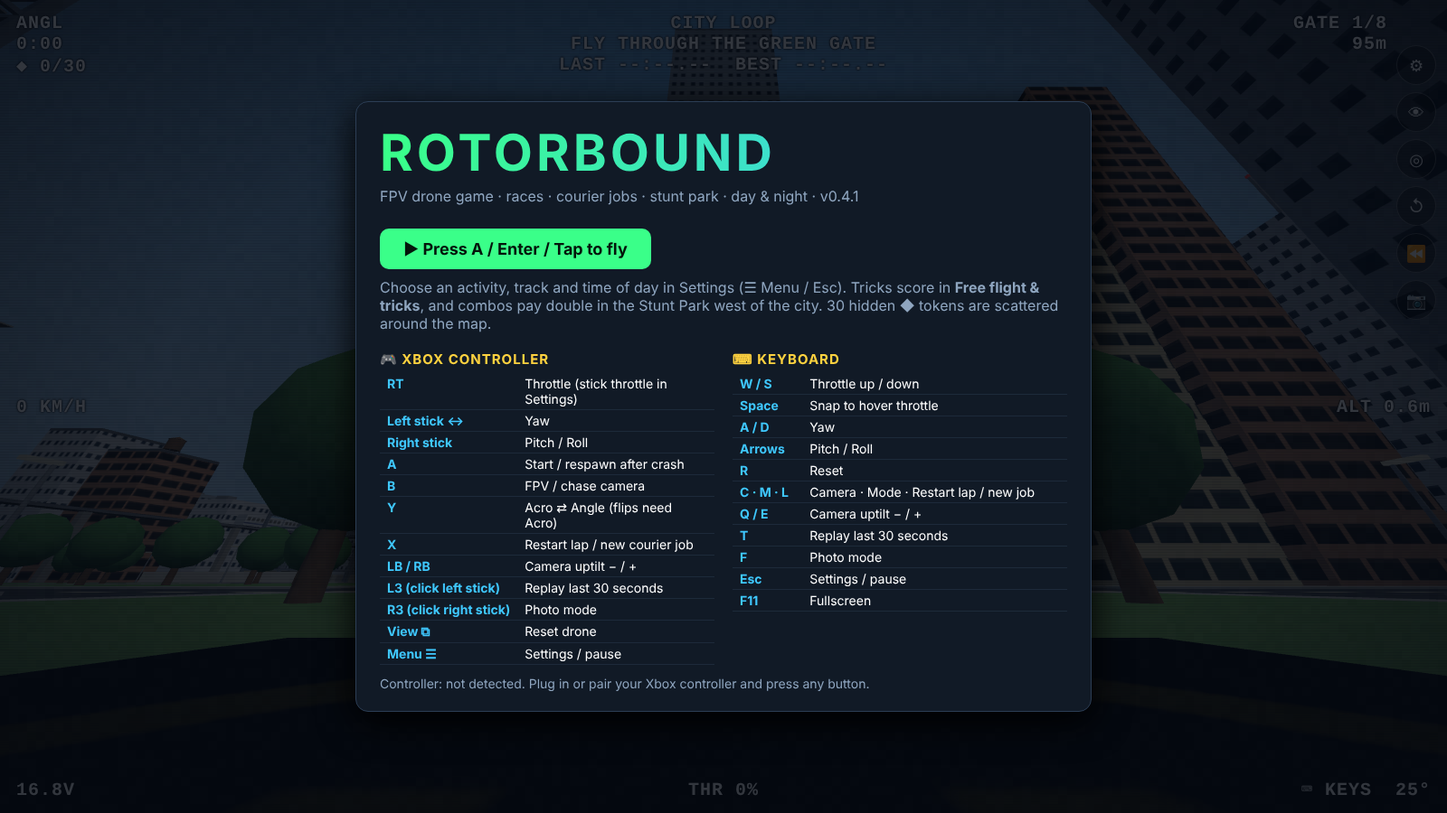
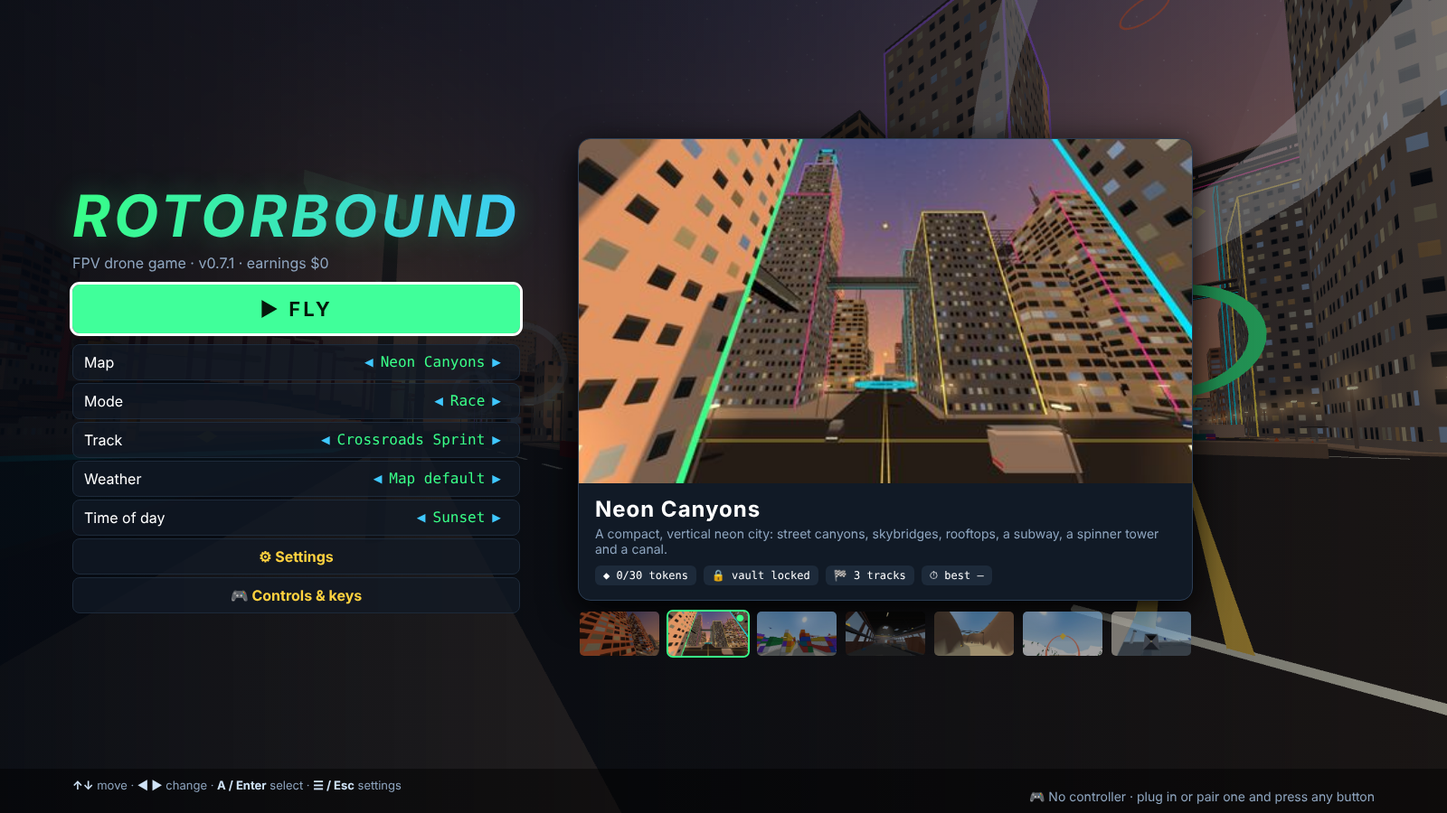
v0.7.1: new main menu with map cards and tabbed settings
Claude-Session: https://claude.ai/code/session_01Qq8UBKphU7AXk4TW1wRbgV

diff --git a/index.html b/index.html
@@ -51,6 +51,29 @@
   .chip{display:inline-block;min-width:22px;padding:2px 5px;margin:2px;border-radius:5px;background:#1d2a3a;font-family:Consolas,monospace;font-size:12px;text-align:center}
   .chip.on{background:#39ff88;color:#04150b}
   #ctrlLive{font-family:Consolas,monospace;font-size:12px;margin-bottom:8px}
+  #start{align-items:stretch;justify-content:stretch;background:linear-gradient(90deg,rgba(5,10,18,.94) 0,rgba(5,10,18,.8) 40%,rgba(5,10,18,.35) 100%)}
+  #title{display:flex;gap:4vw;width:100%;padding:5vh 5vw 64px;box-sizing:border-box;align-items:center;overflow:auto}
+  #title .tl{flex:0 0 min(400px,40vw)}#title .tr{flex:1;max-width:680px;min-width:0}
+  #title h1{font-size:clamp(34px,5.5vw,64px);font-style:italic;text-shadow:0 0 30px rgba(57,255,136,.25)}
+  #tMenu .row{padding:9px 12px;margin:3px 0;background:rgba(17,26,38,.75);border:1px solid #1d2a3a}
+  #tMenu .row.fly{background:#39ff88;color:#04150b;font-size:22px;font-weight:bold;letter-spacing:3px;justify-content:center;padding:14px;margin-bottom:12px;border:0}
+  #tMenu .row.fly.f{outline:3px solid #fff;animation:pulse 1.4s infinite}
+  #tMenu .row.dim{opacity:.45}
+  .mapcard{border-radius:14px;overflow:hidden;background:#111a26;border:1px solid #2c3e55;box-shadow:0 10px 40px #000}
+  .mapcard img{display:block;width:100%;aspect-ratio:16/9;object-fit:cover;background:#0b121b}
+  .mc-body{padding:14px 18px 16px}.mc-name{font-size:24px;font-weight:bold;letter-spacing:1px}.mc-desc{color:#8fa6c0;margin:4px 0 10px;font-size:14px}
+  .mc-stats{display:flex;flex-wrap:wrap;gap:8px}.mc-stats span{background:#1d2a3a;border-radius:6px;padding:4px 9px;font-family:Consolas,monospace;font-size:12px}
+  #tStrip{display:grid;grid-template-columns:repeat(7,1fr);gap:6px;margin-top:10px}
+  #tStrip div{border-radius:7px;overflow:hidden;border:2px solid transparent;cursor:pointer;opacity:.6;position:relative}
+  #tStrip div.sel{border-color:#39ff88;opacity:1}#tStrip div.cur::after{content:'●';position:absolute;top:1px;right:4px;color:#39ff88;font-size:10px}
+  #tStrip img{display:block;width:100%;aspect-ratio:16/9;object-fit:cover}
+  #tHint{position:absolute;left:0;right:0;bottom:0;padding:10px 5vw;background:rgba(0,0,0,.45);color:#8fa6c0;font-size:13px;display:flex;justify-content:space-between;gap:16px;flex-wrap:wrap}
+  #tHint b{color:#cfe3f7}
+  .tabs{display:flex;gap:6px;margin:0 0 12px;flex-wrap:wrap;align-items:center}
+  .tab{padding:7px 13px;border-radius:8px;background:#1d2a3a;color:#8fa6c0;font-size:12px;letter-spacing:1px;cursor:pointer;font-weight:bold}
+  .tab.on{background:#3fc8ff;color:#04121c}.tabs .lbrb{color:#55677d;font-size:11px;font-family:Consolas,monospace}
+  #menu .panel{width:min(620px,92vw);height:min(640px,86vh);display:flex;flex-direction:column}#rows{flex:1;overflow:auto}
+  @media (max-width:820px){#title{flex-direction:column;align-items:stretch}#title .tl{flex:none}#tStrip{grid-template-columns:repeat(4,1fr)}}
   #upd{position:fixed;bottom:60px;left:50%;transform:translateX(-50%);background:#132235;border:1px solid #3fc8ff;border-radius:10px;padding:12px 16px;z-index:20;display:none;max-width:90vw;text-align:center}
   #upd button{margin:8px 6px 0;padding:6px 14px;border-radius:6px;border:0;font-weight:bold;cursor:pointer}
 </style>
@@ -75,11 +98,21 @@
 <div id="upd"></div>
 
 <div class="overlay" id="start">
-  <div class="panel">
-    <h1>ROTORBOUND</h1>
-    <div class="sub">FPV drone game · races · courier jobs · stunt park · day &amp; night · <span id="verS"></span></div>
-    <div class="go" id="goBtn">▶ Press A / Enter / Tap to fly</div>
-    <div class="sub" style="margin:-6px 0 10px">Choose an activity, track and time of day in Settings (☰ Menu / Esc). Tricks score in <b>Free flight &amp; tricks</b>, and combos pay double in the Stunt Park west of the city. 30 hidden ◆ tokens are scattered around the map.</div>
+  <div id="title">
+    <div class="tl">
+      <h1>ROTORBOUND</h1>
+      <div class="sub" style="margin-bottom:14px">FPV drone game · <span id="verS"></span> · <span id="tCash"></span></div>
+      <div id="tMenu"></div>
+    </div>
+    <div class="tr">
+      <div class="mapcard"><img id="tImg" alt=""><div class="mc-body"><div class="mc-name" id="tName"></div><div class="mc-desc" id="tDesc"></div><div class="mc-stats" id="tStats"></div></div></div>
+      <div id="tStrip"></div>
+    </div>
+  </div>
+  <div id="tHint"><span><b>↑↓</b> move · <b>◀ ▶</b> change · <b>A / Enter</b> select · <b>☰ / Esc</b> settings</span><span id="padState">Controller: not detected</span></div>
+</div>
+
+<div class="overlay" id="help" style="display:none"><div class="panel"><h3 style="font-size:20px;margin-top:0">🎮 CONTROLS &amp; KEYS</h3>
     <div class="cols">
       <div>
         <h3>🎮 XBOX CONTROLLER</h3>
@@ -119,19 +152,19 @@
         </table>
       </div>
     </div>
-    <div id="padState">Controller: not detected. Plug in or pair your Xbox controller and press any button.</div>
-  </div>
-</div>
+    <div class="sub" style="margin:12px 0 0;font-size:13px">Tricks score in <b>Free flight &amp; tricks</b>; combos pay double in Rotor City's Stunt Park. Find every ◆ token on a map to open its secret vault. Remap buttons in Settings → Flying → Controller setup.</div>
+    <div class="go" id="helpClose" style="animation:none;font-size:15px;padding:8px 20px;margin:12px 0 0">✔ Got it (A / Esc)</div>
+</div></div>
 
 <div class="overlay" id="ctrl" style="display:none"><div class="panel" style="min-width:min(620px,92vw)"><h3 style="font-size:20px;margin-top:0">🎮 CONTROLLER SETUP</h3><div id="ctrlLive"></div><div id="ctrlRows"></div><div id="ctrlMsg" class="sub" style="margin:10px 0 0;font-size:13px;color:#ffd23f"></div><div class="sub" style="margin:6px 0 0;font-size:12px">D-pad / arrows to move · A / Enter to select · ◀ ▶ to change · B / Esc to close</div></div></div>
-<div class="overlay" id="menu" style="display:none"><div class="panel" style="min-width:min(540px,90vw)"><h3 style="font-size:20px;margin-top:0">⚙ SETTINGS</h3><div id="rows"></div><div class="sub" style="margin:10px 0 0;font-size:12px">D-pad / arrows to move · ◀ ▶ to change · A / Enter to select · B / Esc to close</div></div></div>
+<div class="overlay" id="menu" style="display:none"><div class="panel" style="min-width:min(540px,90vw)"><h3 style="font-size:20px;margin-top:0">⚙ SETTINGS</h3><div class="tabs" id="menuTabs"></div><div id="rows"></div><div class="sub" style="margin:10px 0 0;font-size:12px">↑↓ move · ◀ ▶ change · LB / RB or Q / E switch tab · A / Enter select · B / Esc close</div></div></div>
 
 <script src="lib/three.min.js"></script>
 <script>if(!window.THREE)document.write('<script src="https://cdn.jsdelivr.net/npm/three@0.149.0/build/three.min.js"><\/script>')</script>
 <script>
 (function(){
 'use strict';
-const VERSION='0.7.0';
+const VERSION='0.7.1';
 const REPO='kefirman9000/rotorbound';
 const $=id=>document.getElementById(id);
 if(!window.THREE){document.body.innerHTML='<div style="padding:40px;font-size:20px">Could not load the 3D engine (lib/three.min.js is missing). Re-download Rotorbound from GitHub.</div>';return;}
@@ -1548,7 +1581,7 @@ function axisN(ax,i){return dzv(axisRaw(ax,i),i<2?S.dzL:S.dzR);}
 let gpIndex=null,prevBtn=[],gpName='';
 addEventListener('gamepadconnected',e=>{gpIndex=e.gamepad.index;gpName=e.gamepad.id;toast('🎮 Controller connected');updPad();});
 addEventListener('gamepaddisconnected',e=>{if(gpIndex===e.gamepad.index){gpIndex=null;toast('Controller disconnected');updPad();}});
-function updPad(){$('padState').innerHTML=gpIndex!==null?'Controller: <b style="color:#39ff88">connected</b> · '+(gpName.replace(/\(.*?\)/g,'').trim()||'gamepad'):'Controller: not detected. Plug in or pair your Xbox controller and press any button.';}
+function updPad(){$('padState').innerHTML=gpIndex!==null?'🎮 <b style="color:#39ff88">'+(gpName.replace(/\(.*?\)/g,'').trim()||'Controller')+'</b> connected':'🎮 No controller · plug in or pair one and press any button';}
 function getPad(){const pads=navigator.getGamepads?navigator.getGamepads():[];if(gpIndex!==null&&pads[gpIndex])return pads[gpIndex];for(const p of pads)if(p&&p.connected){gpIndex=p.index;gpName=p.id;updPad();return p;}return null;}
 function rumble(strong,weak,ms){if(!S.rumble)return;const p=getPad();const a=p&&p.vibrationActuator;if(a&&a.playEffect)a.playEffect('dual-rumble',{duration:ms,strongMagnitude:strong,weakMagnitude:weak}).catch(()=>{});}
 const hoverThr=()=>1/S.thrustRatio;
@@ -1567,9 +1600,17 @@ function pollPad(dt){
     const code=dir*10+side;
     if(code!==0){if(navHold.dir!==code){navHold={dir:code,t:0.35};menuNav(dir,side);}else{navHold.t-=dt;if(navHold.t<=0){navHold.t=0.11;menuNav(dir,side);}}}else navHold.dir=0;
     if(pressed(0))menuActivate();
+    if(pressed(4))setTab(mTab-1);if(pressed(5))setTab(mTab+1);
     if(pressed(1)||pressed(9))closeMenu();
+  }else if(helpOpen){
+    if(pressed(0)||pressed(1)||pressed(9))closeHelp();
   }else if(!started){
-    if(b.some((x,i)=>i<12&&pressed(i)))startGame();
+    let dir=0;if(bv(12)>.5||ax[1]<-.6)dir=-1;else if(bv(13)>.5||ax[1]>.6)dir=1;
+    let side=0;if(bv(14)>.5||ax[0]<-.6)side=-1;else if(bv(15)>.5||ax[0]>.6)side=1;
+    const code=dir*10+side;
+    if(code!==0){if(navHold.dir!==code){navHold={dir:code,t:0.35};tNav(dir,side);}else{navHold.t-=dt;if(navHold.t<=0){navHold.t=0.11;tNav(dir,side);}}}else navHold.dir=0;
+    if(pressed(0))tActivate();if(pressed(9))openMenu();
+    if(pressed(4)||pressed(5))tChange(TROWS[1],pressed(4)?-1:1);
   }else if(PH.on){
     if(Math.abs(pad.lx)+Math.abs(pad.ly)+Math.abs(pad.rx)+Math.abs(pad.ry)+pad.lt+pad.rt>0.05)source='controller';
     if(pressed(0))takePhoto();if(pressed(1)||pressed(11)||pressed(9))exitPhoto();if(pressed(4))cycleTod(-1);if(pressed(5))cycleTod(1);
@@ -1603,10 +1644,11 @@ function pollPad(dt){
 }
 addEventListener('keydown',e=>{
   const k=e.key.toLowerCase();
-  if(['arrowup','arrowdown','arrowleft','arrowright',' ','backspace'].includes(k))e.preventDefault();
+  if(['arrowup','arrowdown','arrowleft','arrowright',' ','backspace','tab'].includes(k))e.preventDefault();
   if(CT.open){ctrlKey(k);return;}
-  if(menuOpen){if(k==='arrowup'||k==='w')menuNav(-1,0);else if(k==='arrowdown'||k==='s')menuNav(1,0);else if(k==='arrowleft'||k==='a')menuNav(0,-1);else if(k==='arrowright'||k==='d')menuNav(0,1);else if(k==='enter'||k===' ')menuActivate();else if(k==='escape'||k==='p')closeMenu();return;}
-  if(!started){if(k==='enter'||k===' ')startGame();return;}
+  if(menuOpen){if(k==='arrowup'||k==='w')menuNav(-1,0);else if(k==='arrowdown'||k==='s')menuNav(1,0);else if(k==='arrowleft'||k==='a')menuNav(0,-1);else if(k==='arrowright'||k==='d')menuNav(0,1);else if(k==='enter'||k===' ')menuActivate();else if(k==='q'||(k==='tab'&&e.shiftKey))setTab(mTab-1);else if(k==='e'||k==='tab')setTab(mTab+1);else if(k==='escape'||k==='p')closeMenu();return;}
+  if(helpOpen){if(k==='escape'||k==='enter'||k===' ')closeHelp();return;}
+  if(!started){if(k==='arrowup'||k==='w')tNav(-1,0);else if(k==='arrowdown'||k==='s')tNav(1,0);else if(k==='arrowleft'||k==='a')tNav(0,-1);else if(k==='arrowright'||k==='d')tNav(0,1);else if(k==='enter'||k===' ')tActivate();else if(k==='escape')openMenu();return;}
   kb.keys.add(k);
   if(e.repeat)return;
   if(PH.on){source='keyboard';if(k==='enter'||k==='p')takePhoto();else if(k==='f'||k==='escape')exitPhoto();else if(k==='['||k==='z')cycleTod(-1);else if(k===']'||k==='x')cycleTod(1);return;}
@@ -1891,6 +1933,7 @@ function updFx(dt){
 const tiltQ=new QT(),shakeQ=new QT(),chasePos=new V3(0,3,6),_hf=new V3(),XAX=new V3(1,0,0);
 let shake=0;
 function updCamera(dt){
+  if(!started&&!window.__rbHold){const sp=MAPDEF.spawn.p,a=performance.now()*0.00005+(MAPDEF.spawn.h||0);drone.visible=false;camera.position.set(sp[0],Math.max(sp[1],groundH(sp[0],sp[2],sp[1]+2))+2.2,sp[2]);_e.set(0.06,a,0,'YXZ');camera.quaternion.setFromEuler(_e);return;}
   const fpv=S.view==='fpv';
   drone.visible=!fpv;
   drone.position.copy(D.pos);drone.quaternion.copy(D.q);
@@ -1974,6 +2017,7 @@ function toast(msg){const t=$('toast');t.textContent=msg;t.style.opacity=1;clear
 let menuOpen=false,focus=1;
 const ROWS=[
   {h:'PLAY'},
+  {a:'resume',l:'▶ Resume'},
   {k:'map',l:'Map',o:[['city','Rotor City'],['canyons','Neon Canyons'],['port','Port Yard'],['factory','Abandoned Factory'],['valley','Canyon Valley'],['ski','Ski Resort'],['mall','Mall & Airport']]},
   {k:'activity',l:'Activity',o:[['race','Race'],['courier','Courier jobs'],['free','Free flight & tricks']]},
   {k:'track',l:'Track',o:TRACK_IDS.map(id=>[id,TRACKS[id].name])},
@@ -1987,14 +2031,14 @@ const ROWS=[
   {k:'shadows',l:'Sun shadows (all maps except Rotor City)',b:1},
   {k:'respawn',l:'After a crash',o:[['safe','Respawn at last safe spot / gate'],['start','Restart from the start']]},
   {k:'light',l:'Drone headlight',o:[['auto','Auto (dark)'],['on','On'],['off','Off']]},
-  {a:'replay',l:'⏪ Replay last 30 seconds'},{a:'photo',l:'📷 Photo mode'},
+  {a:'replay',l:'⏪ Replay last 30 seconds',game:1},{a:'photo',l:'📷 Photo mode',game:1},
   {h:'FLYING'},
   {k:'mode',l:'Flight mode',o:[['angle','Angle (self-level)'],['horizon','Horizon (level + flips)'],['acro','Acro (flips & rolls)']]},
   {k:'altHold',l:'Altitude hold (Angle/Horizon)',b:1},
   {k:'layout',l:'Throttle style',o:[['trigger','Trigger (RT)'],['hover','Stick · center = hover'],['stick','Stick / RC radio · full range']]},
   {k:'thrMid',l:'Throttle mid',min:0.2,max:0.8,st:0.05,f:v=>v.toFixed(2)},
   {k:'thrExpo',l:'Throttle expo',min:0,max:1,st:0.05,f:v=>v.toFixed(2)},
-  {h:'RATES (Betaflight actual)'},{info:'rates'},{k:'rollRc',l:'Roll RC rate',min:0.2,max:2.55,st:0.05,f:v=>v.toFixed(2)},{k:'rollSr',l:'Roll super rate',min:0,max:0.95,st:0.05,f:v=>v.toFixed(2)},{k:'rollEx',l:'Roll expo',min:0,max:1,st:0.05,f:v=>v.toFixed(2)},{k:'pitchRc',l:'Pitch RC rate',min:0.2,max:2.55,st:0.05,f:v=>v.toFixed(2)},{k:'pitchSr',l:'Pitch super rate',min:0,max:0.95,st:0.05,f:v=>v.toFixed(2)},{k:'pitchEx',l:'Pitch expo',min:0,max:1,st:0.05,f:v=>v.toFixed(2)},{k:'yawRc',l:'Yaw RC rate',min:0.2,max:2.55,st:0.05,f:v=>v.toFixed(2)},{k:'yawSr',l:'Yaw super rate',min:0,max:0.95,st:0.05,f:v=>v.toFixed(2)},{k:'yawEx',l:'Yaw expo',min:0,max:1,st:0.05,f:v=>v.toFixed(2)},
+  {h:'RATES'},{info:'rates'},{k:'rollRc',l:'Roll RC rate',min:0.2,max:2.55,st:0.05,f:v=>v.toFixed(2)},{k:'rollSr',l:'Roll super rate',min:0,max:0.95,st:0.05,f:v=>v.toFixed(2)},{k:'rollEx',l:'Roll expo',min:0,max:1,st:0.05,f:v=>v.toFixed(2)},{k:'pitchRc',l:'Pitch RC rate',min:0.2,max:2.55,st:0.05,f:v=>v.toFixed(2)},{k:'pitchSr',l:'Pitch super rate',min:0,max:0.95,st:0.05,f:v=>v.toFixed(2)},{k:'pitchEx',l:'Pitch expo',min:0,max:1,st:0.05,f:v=>v.toFixed(2)},{k:'yawRc',l:'Yaw RC rate',min:0.2,max:2.55,st:0.05,f:v=>v.toFixed(2)},{k:'yawSr',l:'Yaw super rate',min:0,max:0.95,st:0.05,f:v=>v.toFixed(2)},{k:'yawEx',l:'Yaw expo',min:0,max:1,st:0.05,f:v=>v.toFixed(2)},
   {k:'angleMax',l:'Angle mode max tilt',min:20,max:80,st:5,f:v=>v+'°'},
   {k:'thrustRatio',l:'Power (thrust : weight)',min:2,max:8,st:0.5,f:v=>v.toFixed(1)+':1'},
   {a:'ctrl',l:'🎮 Controller setup, remap & calibrate'},
@@ -2009,15 +2053,20 @@ const ROWS=[
   {k:'trigRumble',l:'Trigger rumble (Xbox)',b:1},
   {k:'sound',l:'Sound',b:1},
   {k:'volume',l:'Volume',min:0,max:1,st:0.05,f:v=>Math.round(v*100)+'%'},
-  {h:''},
-  {a:'resume',l:'▶ Resume'},{a:'reset',l:'↺ Reset drone'},{a:'clearGhost',l:'Clear best lap, ghost & leaderboard for this track'},{a:'defaults',l:'Restore default settings'},{a:'update',l:'⟳ Check for updates'},
+  {h:'SYSTEM'},
+  {a:'help',l:'🎮 Controls & keys'},{a:'title',l:'⌂ Main menu',game:1},{a:'reset',l:'↺ Reset drone',game:1},{a:'clearGhost',l:'Clear best lap, ghost & leaderboard for this track'},{a:'defaults',l:'Restore default settings'},{a:'update',l:'⟳ Check for updates'},
   {a:'sponsor',l:'❤ Support Rotorbound on GitHub Sponsors'}
 ];
-const skip=r=>('h' in r)||('info' in r);
+const skip=r=>('h' in r)||('info' in r)||(r.game&&!started);
+const TABS=ROWS.filter(r=>'h' in r).map(r=>r.h),TABOF=[];{let t=-1;ROWS.forEach((r,i)=>{if('h' in r)t++;TABOF[i]=t;});}
+let mTab=0;
+function tabRows(){return ROWS.map((r,i)=>i).filter(i=>TABOF[i]===mTab&&!skip(ROWS[i]));}
+function setTab(t){mTab=(t+TABS.length)%TABS.length;focus=tabRows()[0];renderMenu();}
 function valText(r){const v=S[r.k];if(r.o){const o=r.o.find(x=>x[0]===v);return o?o[1]:String(v);}if(r.b)return v?'ON':'OFF';return r.f(v);}
 function boardText(){const b=store.get('board.'+S.track,[]);if(!b.length)return '🏁 '+TRACKS[S.track].name+' leaderboard: no laps yet';return '🏁 '+TRACKS[S.track].name+' · top laps on this PC\n'+b.slice(0,5).map((e,i)=>`  ${i+1}. ${fmtT(e.t)}   ${e.d}`).join('\n');}
 function renderMenu(){
-  $('rows').innerHTML=ROWS.map((r,i)=>('h' in r)?`<div class="row hd">${r.h}</div>`:('info' in r)?(r.info==='rates'?`<div class="row info"><canvas id="rateCv" width="460" height="130" style="width:100%;max-width:460px"></canvas></div>`:`<div class="row info">${boardText()}</div>`):r.a?`<div class="row act${i===focus?' f':''}" data-i="${i}">${r.a==='sponsor'?`<a href="https://github.com/sponsors/kefirman9000" target="_blank" rel="noopener">${r.l}</a>`:r.l}</div>`:`<div class="row${i===focus?' f':''}" data-i="${i}"><span>${r.l}</span><span class="v"><span data-d="-1">◀</span>${valText(r)}<span data-d="1">▶</span></span></div>`).join('')+
+  $('menuTabs').innerHTML='<span class="lbrb">LB</span>'+TABS.map((t,k)=>`<div class="tab${k===mTab?' on':''}" data-t="${k}">${t}</div>`).join('')+'<span class="lbrb">RB</span>';
+  $('rows').innerHTML=ROWS.map((r,i)=>(TABOF[i]!==mTab||('h' in r)||(r.game&&!started))?'':('info' in r)?(r.info==='rates'?`<div class="row info"><canvas id="rateCv" width="460" height="130" style="width:100%;max-width:460px"></canvas></div>`:`<div class="row info">${boardText()}</div>`):r.a?`<div class="row act${i===focus?' f':''}" data-i="${i}">${r.a==='resume'&&!started?'◀ Back to main menu':r.a==='sponsor'?`<a href="https://github.com/sponsors/kefirman9000" target="_blank" rel="noopener">${r.l}</a>`:r.l}</div>`:`<div class="row${i===focus?' f':''}" data-i="${i}"><span>${r.l}</span><span class="v"><span data-d="-1">◀</span>${valText(r)}<span data-d="1">▶</span></span></div>`).join('')+
     `<div class="sub" style="text-align:center;margin:8px 0 0;font-size:12px">${MAPDEF.name} · ${MAPDEF.vaults.length?(MAPDEF.vaults[0].open?'🔓 vault open':'🔒 find every ◆ to open the vault')+' · ':''}Rotorbound v${VERSION} · earnings ${fmtCash(cash)} · tokens ${gotTokens.size}/${tokens.length} · trick score ${T.total.toLocaleString()}</div>`;
   const el=$('rows').querySelector('.row.f');if(el)el.scrollIntoView({block:'nearest'});
   drawRates();
@@ -2036,11 +2085,12 @@ function change(r,d){
   if(r.k==='mode'&&S.mode==='angle')syncHeading();
   if(r.k==='layout'){if(S.layout==='trigger'&&S.bind.thr.t!=='b')S.bind.thr={t:'b',i:7,inv:false};if(S.layout!=='trigger'&&S.bind.thr.t==='b')S.bind.thr={t:'a',i:1,inv:true};}
   if(r.k==='racingLine')buildRacingLine();
-  if(r.k==='map'||r.k==='shadows'){if(r.k==='map'&&S.map==='canyons'&&S.tod==='day')S.tod='sunset';save();$('menu').innerHTML='<div class="panel">Loading '+(S.map==='canyons'?'Neon Canyons':'Rotor City')+'…</div>';setTimeout(()=>location.reload(),50);return;}
+  if(r.k==='map'||r.k==='shadows'){if(r.k==='map'&&S.map==='canyons'&&S.tod==='day')S.tod='sunset';save();showLoading(S.map);return;}
   if(r.k==='activity'||r.k==='track'){if(r.k==='track'&&S.activity!=='race')S.activity='race';setupActivity();}
   save();renderMenu();
 }
-function menuNav(dir,side){if(dir){do{focus=(focus+dir+ROWS.length)%ROWS.length;}while(skip(ROWS[focus]));renderMenu();}else if(side)change(ROWS[focus],side);}
+function menuNav(dir,side){if(dir){const tr=tabRows();if(!tr.length)return;const k=tr.indexOf(focus);focus=tr[k<0?0:(k+dir+tr.length)%tr.length];renderMenu();}else if(side)change(ROWS[focus],side);}
+$('menuTabs').addEventListener('click',e=>{const t=e.target.closest('.tab');if(t)setTab(+t.dataset.t);});
 function menuActivate(){
   const r=ROWS[focus];if(skip(r))return;
   if(!r.a){change(r,1);return;}
@@ -2052,10 +2102,50 @@ function menuActivate(){
   else if(r.a==='clearGhost'){store.set('best.'+S.track,null);store.set('ghost.'+S.track,null);store.set('board.'+S.track,[]);loadTrackRecords();renderMenu();toast('Cleared records for '+TRACKS[S.track].name);}
   else if(r.a==='defaults'){S=Object.assign({},DEFAULTS);save();setupActivity();renderMenu();toast('Defaults restored');}
   else if(r.a==='update')checkUpdate(true);
+  else if(r.a==='help'){closeMenu();openHelp();}
+  else if(r.a==='title')toTitle();
   else if(r.a==='sponsor'){const a=$('rows').querySelector('a');if(a)a.click();}
 }
-function openMenu(){if(!started)return;if(RB.on)exitReplay();if(PH.on)exitPhoto();menuOpen=true;if(skip(ROWS[focus]))focus=1;$('menu').style.display='flex';renderMenu();}
-function closeMenu(){menuOpen=false;$('menu').style.display='none';}
+function openMenu(){if(RB.on)exitReplay();if(PH.on)exitPhoto();menuOpen=true;if(started)mTab=0;if(TABOF[focus]!==mTab||skip(ROWS[focus]))focus=tabRows()[0];$('menu').style.display='flex';renderMenu();}
+function closeMenu(){menuOpen=false;$('menu').style.display='none';if(!started){tMap=MAP;renderTitle();}}
+
+// ---------------- main menu (title screen) ----------------
+const MAP_INFO={city:{n:'Rotor City',d:'A big sprawling city with a stunt park, a stadium, the Skyfair theme park, a river and an elevated train.',tk:30,tr:6},
+  canyons:{n:'Neon Canyons',d:'A compact, vertical neon city: street canyons, skybridges, rooftops, a subway, a spinner tower and a canal.',tk:30,tr:3},
+  port:{n:'Port Yard',d:'Container canyons, moving gantry cranes and two cargo ships you can fly straight through.',tk:25,tr:2},
+  factory:{n:'Abandoned Factory',d:'A dark hall of catwalks and conveyors, smokestacks, silos and a pitch-black tunnel.',tk:25,tr:2},
+  valley:{n:'Canyon Valley',d:'Real terrain: a river, a waterfall with a cave behind it, a dam spillway, bridges and a rock arch.',tk:28,tr:2},
+  ski:{n:'Ski Resort',d:'A snowy mountain with a chairlift, a gondola, a ski jump, slalom flags and a lodge.',tk:30,tr:2},
+  mall:{n:'Mall & Airport',d:'A three-floor atrium, a food court, an airport terminal, jet bridges and taxiing planes.',tk:26,tr:2}};
+let tMap=MAP,tFocus=0,helpOpen=false;
+const TROWS=[{a:'fly'},{k:'map',l:'Map'},{k:'activity',l:'Mode'},{k:'track',l:'Track'},{k:'weather',l:'Weather'},{k:'tod',l:'Time of day'},{a:'settings',l:'⚙ Settings'},{a:'help',l:'🎮 Controls & keys'}];
+const rowDef=k=>ROWS.find(r=>r.k===k);
+const tHidden=r=>r.k==='track'&&(S.activity!=='race'||tMap!==MAP);
+function tVal(r){if(r.k==='map')return MAP_INFO[tMap].n;const d=rowDef(r.k),o=d.o.find(x=>x[0]===S[r.k]);return o?o[1]:String(S[r.k]);}
+function showLoading(m){$('menu').style.display='flex';$('menu').innerHTML='<div class="panel" style="font-size:20px;padding:30px 40px">Loading '+MAP_INFO[m].n+'…</div>';setTimeout(()=>location.reload(),50);}
+function renderTitle(){
+  const tk=id=>store.get(id==='city'?'tokens':'tokens.'+id,[]).length;
+  $('tMenu').innerHTML=TROWS.map((r,i)=>tHidden(r)?'':r.a==='fly'?`<div class="row fly${i===tFocus?' f':''}" data-i="${i}">▶ ${tMap===MAP?'FLY':'LOAD &amp; FLY'}</div>`:r.a?`<div class="row act${i===tFocus?' f':''}" data-i="${i}">${r.l}</div>`:
+    `<div class="row${i===tFocus?' f':''}" data-i="${i}"><span>${r.l}</span><span class="v"><span data-d="-1">◀</span>${tVal(r)}<span data-d="1">▶</span></span></div>`).join('');
+  const I=MAP_INFO[tMap];$('tImg').src='img/maps/'+tMap+'.jpg';$('tName').textContent=I.n;$('tDesc').textContent=I.d;
+  const got=tk(tMap),tot=tMap===MAP?tokens.length:I.tk,st=[`◆ ${got}/${tot} tokens`,store.get('vault.'+tMap,false)?'🏆 vault found':got>=tot?'🔓 vault open':'🔒 vault locked',`🏁 ${I.tr} tracks`];
+  if(tMap===MAP&&S.activity==='race'&&TRACKS[S.track]){const b=store.get('best.'+S.track,null);st.push('⏱ best '+(b?fmtT(b.t!=null?b.t:b):'—'));}
+  if(tMap!==MAP)st.push('loads when you fly');
+  $('tStats').innerHTML=st.map(x=>`<span>${x}</span>`).join('');
+  $('tStrip').innerHTML=MAP_IDS.map(id=>`<div class="${id===tMap?'sel':''}${id===MAP?' cur':''}" data-m="${id}" title="${MAP_INFO[id].n}"><img src="img/maps/${id}.jpg" alt="${MAP_INFO[id].n}"></div>`).join('');
+  $('tCash').textContent='earnings '+fmtCash(cash);
+}
+function tNav(dir,side){const vis=TROWS.map((r,i)=>i).filter(i=>!tHidden(TROWS[i]));if(dir){const k=vis.indexOf(tFocus);tFocus=vis[k<0?0:(k+dir+vis.length)%vis.length];renderTitle();}else if(side)tChange(TROWS[tFocus],side);}
+function tChange(r,d){if(r.a)return;if(r.k==='map'){const k=MAP_IDS.indexOf(tMap);tMap=MAP_IDS[(k+d+MAP_IDS.length)%MAP_IDS.length];}else change(rowDef(r.k),d);renderTitle();}
+function tActivate(){const r=TROWS[tFocus];if(!r.a){tChange(r,1);return;}
+  if(r.a==='fly'){if(tMap!==MAP){S.map=tMap;save();try{sessionStorage.setItem('rb.fly','1');}catch(e){}showLoading(tMap);}else startGame();}
+  else if(r.a==='settings')openMenu();else if(r.a==='help')openHelp();}
+$('tMenu').addEventListener('click',e=>{const row=e.target.closest('.row');if(!row)return;tFocus=+row.dataset.i;const d=e.target.dataset.d;if(d)tChange(TROWS[tFocus],+d);else tActivate();renderTitle();});
+$('tStrip').addEventListener('click',e=>{const c=e.target.closest('[data-m]');if(!c)return;if(tMap===c.dataset.m){tFocus=0;tActivate();return;}tMap=c.dataset.m;tFocus=1;renderTitle();});
+function openHelp(){helpOpen=true;$('help').style.display='flex';}
+function closeHelp(){helpOpen=false;$('help').style.display='none';}
+$('helpClose').onclick=closeHelp;$('help').addEventListener('click',e=>{if(e.target===$('help'))closeHelp();});
+function toTitle(){closeMenu();if(RB.on)exitReplay();if(PH.on)exitPhoto();started=false;tMap=MAP;tFocus=0;document.body.classList.add('clean');$('start').style.display='flex';renderTitle();}
 
 // ---------------- controller setup / remap / calibration ----------------
 const CT={open:false,focus:0,cap:null,calStep:0,cal:null,nav:{dir:0,t:0}};
@@ -2123,9 +2213,8 @@ function showUpdate(j){
 
 // ---------------- loop ----------------
 let started=false;
-function startGame(){if(started)return;started=true;$('start').style.display='none';initAudio();setupActivity();}
-$('goBtn').onclick=startGame;
-$('start').addEventListener('click',e=>{if(e.target===$('start'))startGame();});
+function startGame(){if(started)return;started=true;closeHelp();document.body.classList.remove('clean');$('start').style.display='none';initAudio();setupActivity();}
+document.body.classList.add('clean');renderTitle();try{if(sessionStorage.getItem('rb.fly')){sessionStorage.removeItem('rb.fly');tFocus=0;renderTitle();toast(MAP_INFO[MAP].n+' loaded · press A / Enter to fly');}}catch(e){}
 addEventListener('pointerdown',()=>initAudio());
 let last=performance.now(),acc=0,rewinding=false,trigT=0;
 function frame(now){

diff --git a/README.md b/README.md
@@ -23,7 +23,7 @@ The game opens in its own window and works offline. Each launch checks GitHub fo
 - **Ski Resort:** a snowy mountain with a chairlift, a gondola, a ski jump, slalom flags and a lodge.
 - **Mall & Airport:** a three-floor atrium with escalators, a food court and fountain, an airport terminal with a baggage carousel, jet bridges, parked and taxiing planes, a control tower and a parking deck.
 
-Switch maps in **Settings → Map**, and the weather in **Settings → Weather** (map default, clear, fog, rain with lightning, or snow).
+Pick a map on the **main menu** (or **Settings → Play**), along with the mode, track and weather (map default, clear, fog, rain with lightning, or snow).
 
 ![Neon Canyons](screenshots/20-canyons-crossroads-golden-hour.png)
 
